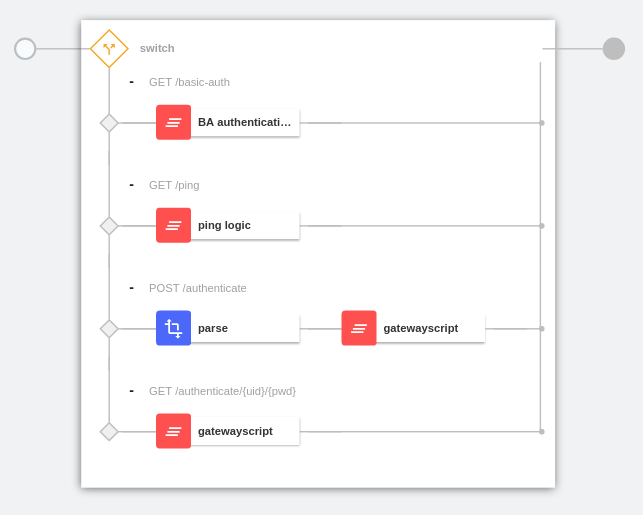
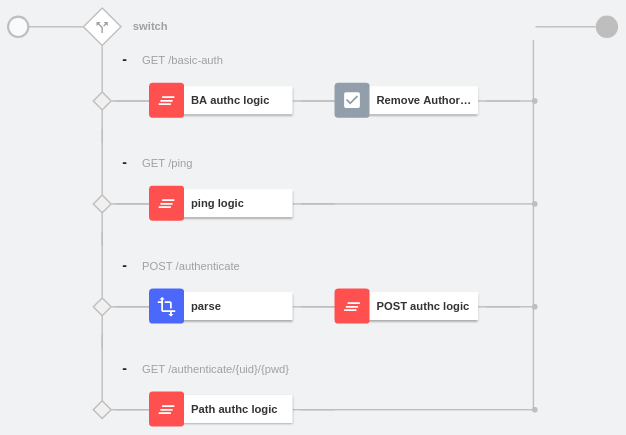
Finish Basic Auth security

Changed region(s): [[0.0, 0.0299, 1.0, 0.9862], [0.2428, 0.5379, 0.3946, 0.5678]]

diff --git a/Lab API - Manage your APIs with API Connect/README.2018.md b/Lab API - Manage your APIs with API Connect/README.2018.md
@@ -4,7 +4,7 @@
 This article is the updated version for V2018. The original version was addressing V5, and can be found [here](./ReadMe.V5.md). This article is made of two parts. In the first section, we explain what is the purpose of API connect and the concepts behind IBM API Connect. Then in the second section, we will practice labs in order to get hands-on with IBM API Connect. Throughout the lab, you’ll get a chance to use the `apic` command line interface for creating LoopBack applications, the intuitive Web-based user interface, and explore the various aspects associated with solution’s configuration of REST API as well as SOAP APIs.
 
 > **Note**:
-This is a Kuberntes installationwith IBM API COnnect 2018.4.1.7fp10. It will be updated as much as possible to follow the new versions of API Connect.
+This is a Kubernetes installation with IBM API COnnect 2018.4.1.10. It will be updated as much as possible to follow the new versions of API Connect.
 The version 2018.x is out since 30th March 2018, and the LTS has been released on 15th November 2018. Due to the significant changes brought by APIC V2018 and also because IBM Cloud (former Bluemix) is using API Connect v5 as of today (19th March 2020), this lab will use the onPremise version, and an updated version of the lab will be made when the IBM Cloud infrastructure is updated. The SaaS version of API connect should be released very soon.
 
 >For any comments, please send an email to arnauld_desprets@fr.ibm.com (Arnauld Desprets).
@@ -923,12 +923,14 @@ The API provided contains a few more paths (operations) than what we describe he
 
 ![Fake Authentication URL Assembly](./images/API-FakeURLUserRegistry-Assembly.png)
 
-Below the processing perfomed in the gateway Javascript:
+Below the processing perfomed in the "BA authc logic" gateway Javascript:
 <BR>Line 1: Get the Basic Authorization header, and split it based on space
 <BR>Line 2: Takes the uid:password base 64 and decode it. Then separate uid and password, separator :.
 <BR>Line 7: Create a response Header called *api-authenticated-credential* with the the CN od the user with an hard coded email domain name.
 <BR>Line 10: Provide the body of the response following the expected body as defined in the documentation.
 <BR>Line 12: If username is different from password then returns UNAUTHENTICATED.
+
+
 
 ```
 1 var reqauth =  context.get('request.headers.authorization').split(' ');
@@ -961,14 +963,81 @@ You need to publish the API, let's say in our Integration catalog. I'm going to 
 apic login -s <manager endpoint> -u <uid> -p <pwd> -r provider/default-idp-2
 apic products:publish -c integration -o org1 -s <manager endpoint> --scope catalog fakeauthenticationproduct_1.0.0.yaml
 ```
-Sample invocation: `curl -H "Accept: application/json" -H "Authorization: Basic: dG90bzp0b3Rv" https://gw.159.8.70.38.xip.io/org1/integration/fakeauth/v1/basic-auth`
+Sample invocation: `curl -k -H "Accept: application/json" -H "Authorization: Basic: Zm9vOmZvbw" https://gw.159.8.70.38.xip.io/org1/integration/fakeauth/v1/basic-auth`
+
+Here is a sample response (formated):
+```
+{
+  "username" : "foo",
+  "email" : "foo@fr.ibm.com",
+  "first_name" : "foo",
+  "last_name" : "foo"
+}
+```
 
 At this stage, we have configured the Fake Authentication URL API that we will use in the next chapters. Of course, in real life that would be more of a user registry or OIDC provider that should be used.
 
- ## Protecting an API with Basic Authentication
- Notice first that using Basic Authentication is not the best and most secured approach! The reason we have this test, is because it is a simple way to check that the *Fake Authentication URL API* is correctly working and can be used to secure an API. If I may make a parallel with Web application, using Basic Authentication is as secured as using it for a web application. A 401 challenge compared to a Form based authentication will imply that every request will contain the uid/pwd, not very secured indeed.
+## Protecting an API with Basic Authentication
+First, please consider that using Basic Authentication is not the best and most secured approach! The reason we have this test, is because it is a simple way to check that the *Fake Authentication URL API* is correctly working and can be used to secure an API. If I may make a parallel with Web application, using Basic Authentication is as secured as using it for a web application. A 401 challenge compared to a Form based authentication will imply that every request will contain the uid/pwd, not very secured indeed.
 
- ## Protecting an API with OAuth - Resource Owner Password Credentials grant
+There is an important design decision regarding what is the scope of the resoure we are going to configure. Resource, here, means User Registries, TLS configurations and OAuth Providers. Should tey apply and be visible for only one organization, or should it be defined for all organizations. In our case, we have taken the decision that the resources will be defined for all organizations, and so we defined them in the Cloud Management Console. We could have decided to do it for each organization so they all would have their specific configurations.
+
+The list of Steps are the following:
+* In the Cloud Management console, define the User Registry based on the *Fake Authentication URL API*
+* In the Manager console, associate the user registry with the Catalogs
+* Configure the API security to use Basic Authentication and publish it into the catalog
+* Test and validate that everything is working
+
+To add the User Registry, go in Cloud Management Console, click on Resourceson the navigation panel, click on Create button.
+
+![Create User Registry](./images/cmc-create-user-registry.png)
+
+Select Authentication URL User Registry, enter the following Information:
+>Title: SampleAuthURL
+<BR>Summary: Created by OAuth Provider configuration as a sample. Make sure to update the OAuth Providers using this sample with a valid User Registry.
+<BR>URL: https://gw.159.8.70.38.xip.io/org1/integration/fakeauth/v1/basic-auth
+<BR>TLS Client Profile: Select Default TLS Client Profile
+
+![User Registry definitions](./images/cmc-user-registry-definition.png)
+
+To associate the user registry with the Catalog, go in the Manager console, click on Manage, select the Integration catalog, then on Settings, and API User Registries
+
+![User Registry definitions in the Catalog](./images/manager-user-registry-edit.png)
+
+Select the and click Save button.
+
+![Select the User Registry](./images/manager-user-registry-select.png)
+
+Now, let's take configure the security for the API. In the Manager, click on Develop menu, import the fakemagento API. This is the  initial API to wrok with an is available in the materials folder. It is version 1.0. Now, we can edit the Security Definitions section, and Add the Basic Authentication, click on Add.
+Enter
+>Name: BA
+<BR>Type: Select Basic
+<BR>Select SampleAuthURL for the *Authenticate using USer Registry*
+
+![Basic authentication Security Definition](./images/manager-BA-Security-definition.png)
+
+In the Security security section, select BA.
+
+![Basic authentication Security section](./images/manager-BA-Security-section.png)
+
+Create a product and publish it to the Integration Catalog, then subscribe to it. (Not explained here, see previous steps).
+
+We can now test the API. The credetials are located in the Authorization header.
+curl -k -H "Content-Type: application/json" -H "Accept: application/json" -H "X-IBM-Client-Id: 421223e773f237c5231842102660896e" -H "Authorization: Basic Zm9vOmZvbw==" -d "{   \"orderDetails\": \"2 plates\", \"orderDate\": \"2019-12-25T10:00:00.000Z\"}" "https://gw.159.8.70.38.xip.io/org1/integration/fakemagento/v1/order"
+You should obtain a response:
+```
+{"norderId":"7275084087558144","norderResult":true,"norderDetails":"2 plates","norderDate":"2019-12-25T10:00:00.000Z"}
+```
+Here, I'm introducing the POSTMAN collection.
+In the POSTMAN, there is a numner of requests that you can adapt for your environment.
+The collection is called: API Education. The environment that you need to adjust for your environment is called: API_Education.
+
+To test the API with Basic Authentication security. You can use the *FakeMagentoOrderBA V1* API.
+![Postman Basic Authentication test](./images/postman-ba-test.png)
+
+Clicking on Send button will give you the expected result.
+
+## Protecting an API with OAuth - Resource Owner Password Credentials grant
 The Resource Owner Password Credentials grant type is specified in [RFC 6749 - OAuth 2.0 Authorization Framework](https://tools.ietf.org/html/rfc6749 "The OAuth 2.0 Authorization Framework Specification").
 
 > **Note**: In this lab, we do not explain how to propagate the user information with a JWT token, it will be done in another version of this lab. But this is an important question, and there are different ways to get user information like having the back end performing a call back with the OAuth token to get information.
